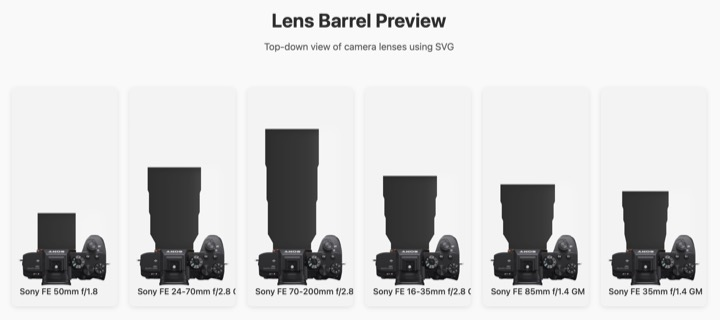
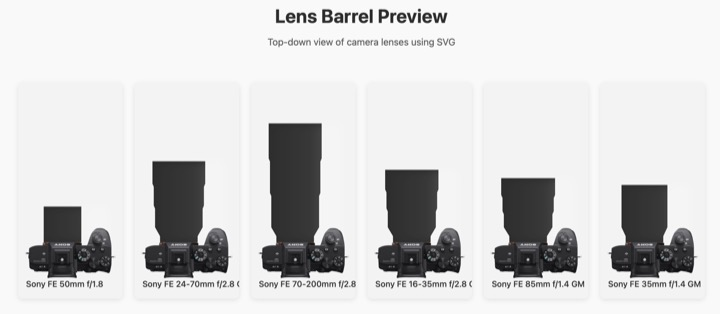
feat: bump threshold (#6)
* feat: bump threshold

* Update demo.jpg

diff --git a/src/renderer/lens.ts b/src/renderer/lens.ts
@@ -1,5 +1,5 @@
 import type { Lens, Point } from '../types';
-import { BUMP_TRANSITION_MM, DEFAULT_BUMP_COUNT, INITIAL_STEP_DIAMETER_FRACTION } from './constants';
+import { BUMP_TRANSITION_MM, DEFAULT_BUMP_COUNT, INITIAL_STEP_DIAMETER_FRACTION, BUMP_SIZE_THRESHOLD_RATIO } from './constants';
 
 const bumpCount: number = DEFAULT_BUMP_COUNT;
 
@@ -55,16 +55,18 @@ export function calculateLensPolygon(
     // Start at back left (mount), go counter-clockwise
     points.push({ x: centerX - minRadius, y: backY });
 
+    const applyBumps = diameter >= mountSpec.mountOuterDiameter * BUMP_SIZE_THRESHOLD_RATIO;
+    
     // Initial step: mount diameter to INITIAL_STEP_DIAMETER_FRACTION of lens diameter.
     // Dividnig by 2 because the amount is split between left and right sides.
-    const initialStepRadius = (INITIAL_STEP_DIAMETER_FRACTION * diameterPx) / 2;
+    const initialStepRadius = (applyBumps ? INITIAL_STEP_DIAMETER_FRACTION * diameterPx : diameterPx) / 2;
     points.push({ x: centerX - minRadius, y: stepStartY });
 
     // Build a flexible bump profile: N bumps evenly spaced over the remaining length
     const remainingLength = lengthPx - (stepDistancePx + stepLengthPx);
     let profile: { radius: number; y: number }[] = [];
     if (remainingLength > 0) {
-      const effectiveBumpCount = Math.max(1, Math.floor(bumpCount || DEFAULT_BUMP_COUNT));
+      const effectiveBumpCount = applyBumps ? Math.max(1, Math.floor(bumpCount || DEFAULT_BUMP_COUNT)) : 0;
       const segmentLength = remainingLength / (effectiveBumpCount + 1);
       const desiredTransitionPx = BUMP_TRANSITION_MM * lensScale;
       // Cap the bump transition length to at most half the segment length to

diff --git a/src/renderer/constants.ts b/src/renderer/constants.ts
@@ -14,3 +14,9 @@ export const BUMP_TRANSITION_MM = 5;
 export const DEFAULT_BUMP_COUNT = 2;
 /** Fraction (0..1) of full diameter used immediately after the mount step (e.g. 0.9 = 90%) */
 export const INITIAL_STEP_DIAMETER_FRACTION = 0.9;
+
+/**
+ * The minimum ratio of lens diameter to mount outer diameter required to draw bumps.
+ * If lens diameter < (mountOuterDiameter * BUMP_SIZE_THRESHOLD_RATIO) then bumps are skipped.
+ */
+export const BUMP_SIZE_THRESHOLD_RATIO = 1.3;
